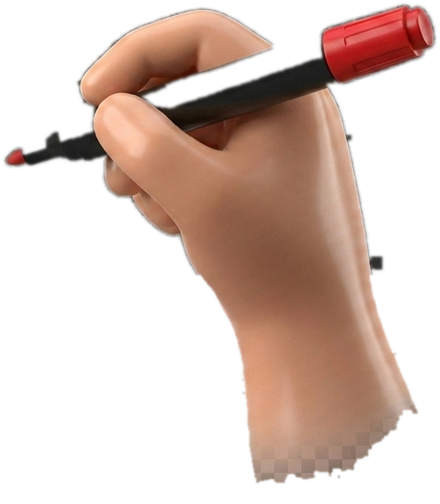
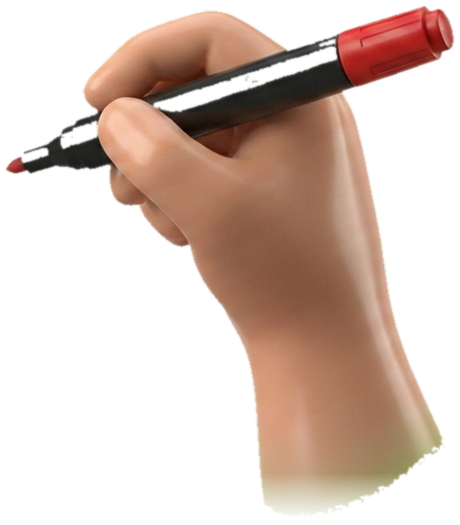
fix(lesson): regenerate presenter hands with genuine transparency
The Downloads renders had a fake checkerboard baked into RGB (no alpha),
so every heuristic cleanup left grey speckle and — worse — the debris
erase chewed a void into the black marker shaft.

New pipeline (scratchpad/regen-hands.mjs + key_hands.py): feed each real
render to Nano Banana asking it to redraw the SAME hand on a flat solid
green background, then chroma-key by 'greenness' (skin is orange, marker
black, cap red — none green, so one clean threshold, no speckle). A
green-guarded fringe kill (g>80) removes arm-exit mist without touching
the near-black pen. Result: solid intact marker, clean edges, faithful
3D style, true alpha. Tips recalibrated: point 92,3 / marker 2,35 /
thumbs 75,47.

diff --git a/src/components/PresentationOverlay.tsx b/src/components/PresentationOverlay.tsx
@@ -54,14 +54,15 @@ const LASER_COLOR = '#EF4444' // matches the red tray marker
 const INK_COLOR = '#1D4ED8'   // matches the blue tray marker
 
 // Fingertip / pen-tip offset within the hand element, per pose (displayed px).
-// Calibrated against the 3D renders in public/hands/ (alpha-bbox + tip scan).
+// Calibrated against the regenerated hands in public/hands/ — chroma-keyed
+// from clean solid-bg renders (scratchpad/regen-hands.mjs + key_hands.py).
 const TIPS: Record<Pose, { x: number; y: number }> = {
-  point: { x: 91, y: 2 },
+  point: { x: 92, y: 3 },
   // laser beams from the HELD PEN's tip (marker render), not a bare finger —
   // a finger emitting a laser dot broke the metaphor
-  laser: { x: 2, y: 40 },
-  marker: { x: 2, y: 40 },
-  thumbs: { x: 75, y: 48 },
+  laser: { x: 2, y: 35 },
+  marker: { x: 2, y: 35 },
+  thumbs: { x: 75, y: 47 },
 }
 
 const HAND_PNGS: Partial<Record<Pose, string>> = {
